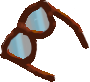
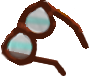
added some rope elements to the character creation scene

diff --git a/src/components/game_scenes/menu_scenes/createCharacter.js b/src/components/game_scenes/menu_scenes/createCharacter.js
@@ -55,17 +55,30 @@ export default class CreateCharacter extends Phaser.Scene {
 
     let shoobyImage = this.add.image(100,377, 'shoobyImage')
     shoobyImage.setScale(2); 
+
 //Accessories buttons
-    let glasses = this.add.image(325,250, 'glasses')
-    glasses.setScale(0.5);
-    let coat = this.add.image(250,250, 'coat')
-    coat.setScale(0.5);
-    let headGear = this.add.image(175,250, 'headgear')
-    headGear.setScale(0.5);
+    const backButtonRope1 = this.add.image(this.game.renderer.width / 2.67, this.game.renderer.height * 0.15, "backButtonRope");
+    backButtonRope1.scale = 0.45
+    let glasses = this.add.image(300,180, 'glasses')
+    glasses.setScale(0.6);
+    const backButtonRope2 = this.add.image(this.game.renderer.width / 3.8, this.game.renderer.height * 0.30, "backButtonRope");
+    backButtonRope2.scale = 0.45
+    const backButtonRope3 = this.add.image(this.game.renderer.width / 3.78, this.game.renderer.height * 0.10, "backButtonRope");
+    backButtonRope3.scale = 0.45
+    let coat = this.add.image(215,250, 'coat')
+    coat.setScale(0.8);
+    const backButtonRope4 = this.add.image(this.game.renderer.width / 5.9, this.game.renderer.height * 0.10, "backButtonRope");
+    backButtonRope4.scale = 0.45
+    let headGear = this.add.image(130,160, 'headgear')
+    headGear.setScale(0.6);
 
     
     const backButtonRope = this.add.image(this.game.renderer.width / 1.18, this.game.renderer.height * 0.57, "backButtonRope");
     backButtonRope.scale = 0.45
+    
+    
+    
+    
 
     const smallPlayButton = this.add.image(this.game.renderer.width / 1.19, this.game.renderer.height * 0.70, "smallPlayButton");
     smallPlayButton.scale = 0.35
